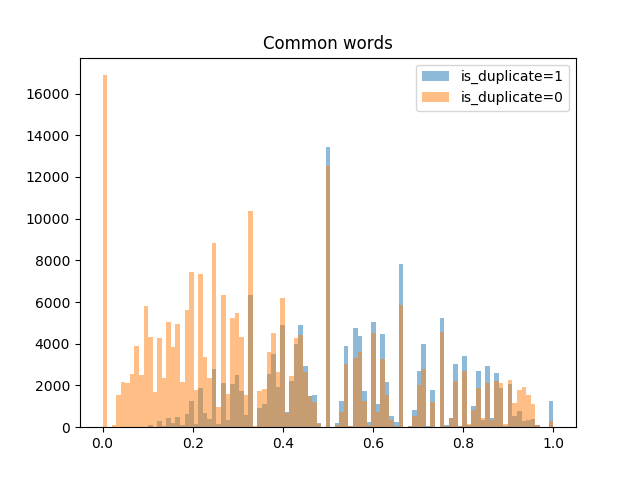
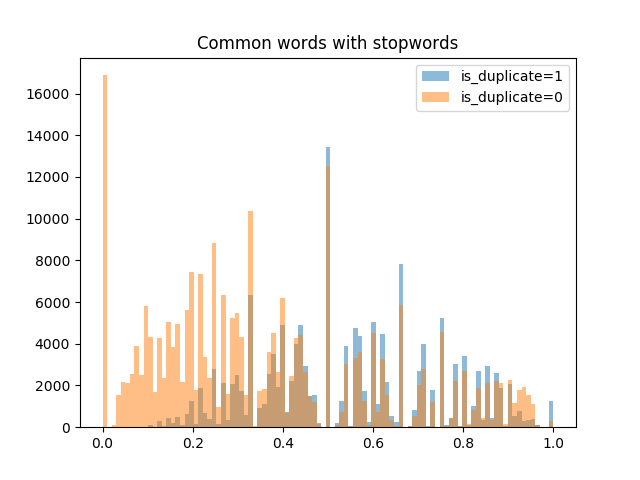
Some visual

Changed region(s): [[0.3125, 0.0625, 0.7188, 0.125]]

diff --git a/Scripts/visualization.py b/Scripts/visualization.py
@@ -3,18 +3,20 @@ import matplotlib.pyplot as plt
 import numpy as np
 import re
 from collections import Counter as mset
-import spelling as sp
+from nltk.corpus import stopwords
+import scipy as sp
+from load_files import load_glove
 
 # Load data from csv files
 traindata = pd.read_csv('../Data/train.csv')
 traindata = traindata.replace(np.nan, '', regex=True)
-is_duplicates = traindata.is_duplicate.values
-nbr_duplicates = np.sum(is_duplicates)
-nbr_nonduplicates = len(is_duplicates) - nbr_duplicates
+labels = traindata.is_duplicate.values
+nbr_duplicates = np.sum(labels)
+nbr_nonduplicates = len(labels) - nbr_duplicates
 # testdata = pd.read_csv('../Data/test.csv')
 q1_arr = traindata.question1.values
 q2_arr = traindata.question2.values
-labels = traindata.is_duplicate.values
+
 
 def duplicate_ratio():
     y_train = traindata.is_duplicate.values
@@ -60,30 +62,124 @@ def word_length(with_spaces):
     plt.show()
 
 
-def common_words(with_spelling):
+def common_words(title, save_title, with_spelling, remove_stopwords):
     same = np.zeros((nbr_duplicates, 1))
     different = np.zeros((nbr_nonduplicates, 1))
     same_index = 0
     different_index = 0
+    all_is_stop_count = 0
     for i in range(0, len(q1_arr)):
-        str1 = q1_arr[i].lower()
-        str2 = q2_arr[i].lower()
-        q1 = re.findall("\w+'?\w*", str1)
-        q2 = re.findall("\w+'?\w*", str2)
+        str1 = q1_arr[i]
+        str2 = q2_arr[i]
+        q1 = str_to_array(str1)
+        q2 = str_to_array(str2)
+        if remove_stopwords:
+            q1 = remove_stop(q1)
+            q2 = remove_stop(q2)
+
         # Finds the common words
-        words = list((mset(q1) & mset(q2)).elements())
+        common = list((mset(q1) & mset(q2)).elements())
+        if len(q1) + len(q2) == 0:
+            all_is_stop_count += 1
+            continue
+
         if labels[i] == 0:
-            different[different_index, 0] = len(words)/max(len(q1), len(q2))
+            different[different_index, 0] = len(common)/max(len(q1), len(q2))
             different_index += 1
         else:
-            same[same_index, 0] = len(words)/max(len(q1), len(q2))
+            same[same_index, 0] = len(common)/max(len(q1), len(q2))
             same_index += 1
     bins = np.linspace(0, 1, 100)
-    plt.title("Common words")
+    print(all_is_stop_count)
+    plt.title(title)
     plt.hist(same, bins, alpha=0.5, label="is_duplicate=1")
     plt.hist(different, bins, alpha=0.5, label="is_duplicate=0")
     plt.legend(loc='upper right')
-    plt.savefig('../Visualization/common_words')
+    plt.savefig('../Visualization/' + save_title)
     plt.show()
 
-common_words(False)
+
+def str_to_array(str):
+    return re.findall("\w+'?\w*", str.lower())
+
+
+def remove_stop(q):
+    stop = set(stopwords.words('english'))
+    result = [word for word in q if word not in stop]
+    return result
+
+def vector_distance(title, save_title, glove, metric='euclidean'):
+    same = np.zeros((nbr_duplicates, 1))
+    diff = np.zeros((nbr_nonduplicates, 1))
+    same_index = 0
+    diff_index = 0
+
+    for i in range(0, len(q1_arr)):
+        if i % 1000 == 0:
+            print('{0:.2f}% finished'.format(i/len(q1_arr)*100))
+
+        q1 = str_to_array(q1_arr[i])
+        q2 = str_to_array(q2_arr[i])
+
+        # Remove common words
+        common = list((mset(q1) & mset(q2)).elements())
+        q1 = [word for word in q1 if word not in common]
+        q2 = [word for word in q2 if word not in common]
+
+        q1 = remove_stop(q1)
+        q2 = remove_stop(q2)
+
+        q1_vec = np.zeros((1, 50))
+        q2_vec = np.zeros((1, 50))
+        # Add all vectorized words from glove in each question vector. If wrongly spelled, ignore it
+        for word in q1:
+            try:
+                q1_vec = np.add(q1_vec, glove[word])
+            except KeyError:
+                continue
+        for word in q2:
+            try:
+                q2_vec = np.add(q2_vec, glove[word])
+            except KeyError:
+                continue
+
+        # Normalize the vectorized questions
+        q1_norm = np.linalg.norm(q1_vec)
+        q2_norm = np.linalg.norm(q2_vec)
+        if q1_norm > 0 and q2_norm > 0:
+            q1_vec = np.divide(q1_vec, q1_norm)
+            q2_vec = np.divide(q2_vec, q2_norm)
+
+        if labels[i] == 1:
+            same[same_index, 0] = sp.spatial.distance.cdist(q1_vec, q2_vec, metric)
+            same_index += 1
+        else:
+            diff[diff_index, 0] = sp.spatial.distance.cdist(q1_vec, q2_vec, metric)
+            diff_index += 1
+
+    np.save("vec_dist_same", same)
+    np.save("vec_dist_diff", diff)
+    bins = np.linspace(0, 20, 70)
+    plt.title(title)
+    plt.hist(same, bins, alpha=0.5, label="is_duplicate=1")
+    plt.hist(diff, bins, alpha=0.5, label="is_duplicate=0")
+    plt.legend(loc='upper right')
+    plt.savefig('../Visualization/' + save_title)
+    plt.show()
+
+# common_words("Common words with stopwords", False, False)
+# common_words("Common words without stopwords", "cmn_words_with_stop", False, True)
+
+# glove = load_glove("../Data/glove.6B.50d.txt")
+# np.save("../Data/glove50d", glove)
+glove = np.load("../Data/glove50d.npy").item()
+# vector_distance("Vector distance", "vec_dist", glove, 'cosine')
+same = np.load("vec_dist_same.npy")
+diff = np.load("vec_dist_diff.npy")
+bins = np.linspace(0, 20, 70)
+plt.title("Vec diff")
+plt.hist(same, bins, alpha=0.5, label="is_duplicate=1")
+plt.hist(diff, bins, alpha=0.5, label="is_duplicate=0")
+plt.legend(loc='upper right')
+plt.savefig('../Visualization/vec_dist')
+plt.show()

diff --git a/Scripts/load_files.py b/Scripts/load_files.py
@@ -15,7 +15,7 @@ def load_glove(gloveFile):
             model[word] = embedding
         except ValueError:
             print(line)
-    print("Done.", len(model), " words loaded!")
+    print("Done.", len(model), "words loaded!")
     f.close()
     return model
 

diff --git a/Scripts/vectorizer.py b/Scripts/vectorizer.py
@@ -1,4 +1,3 @@
-<<<<<<< Updated upstream:vectorizer.py
 import regex as re
 import numpy as np
 import scipy as sp
